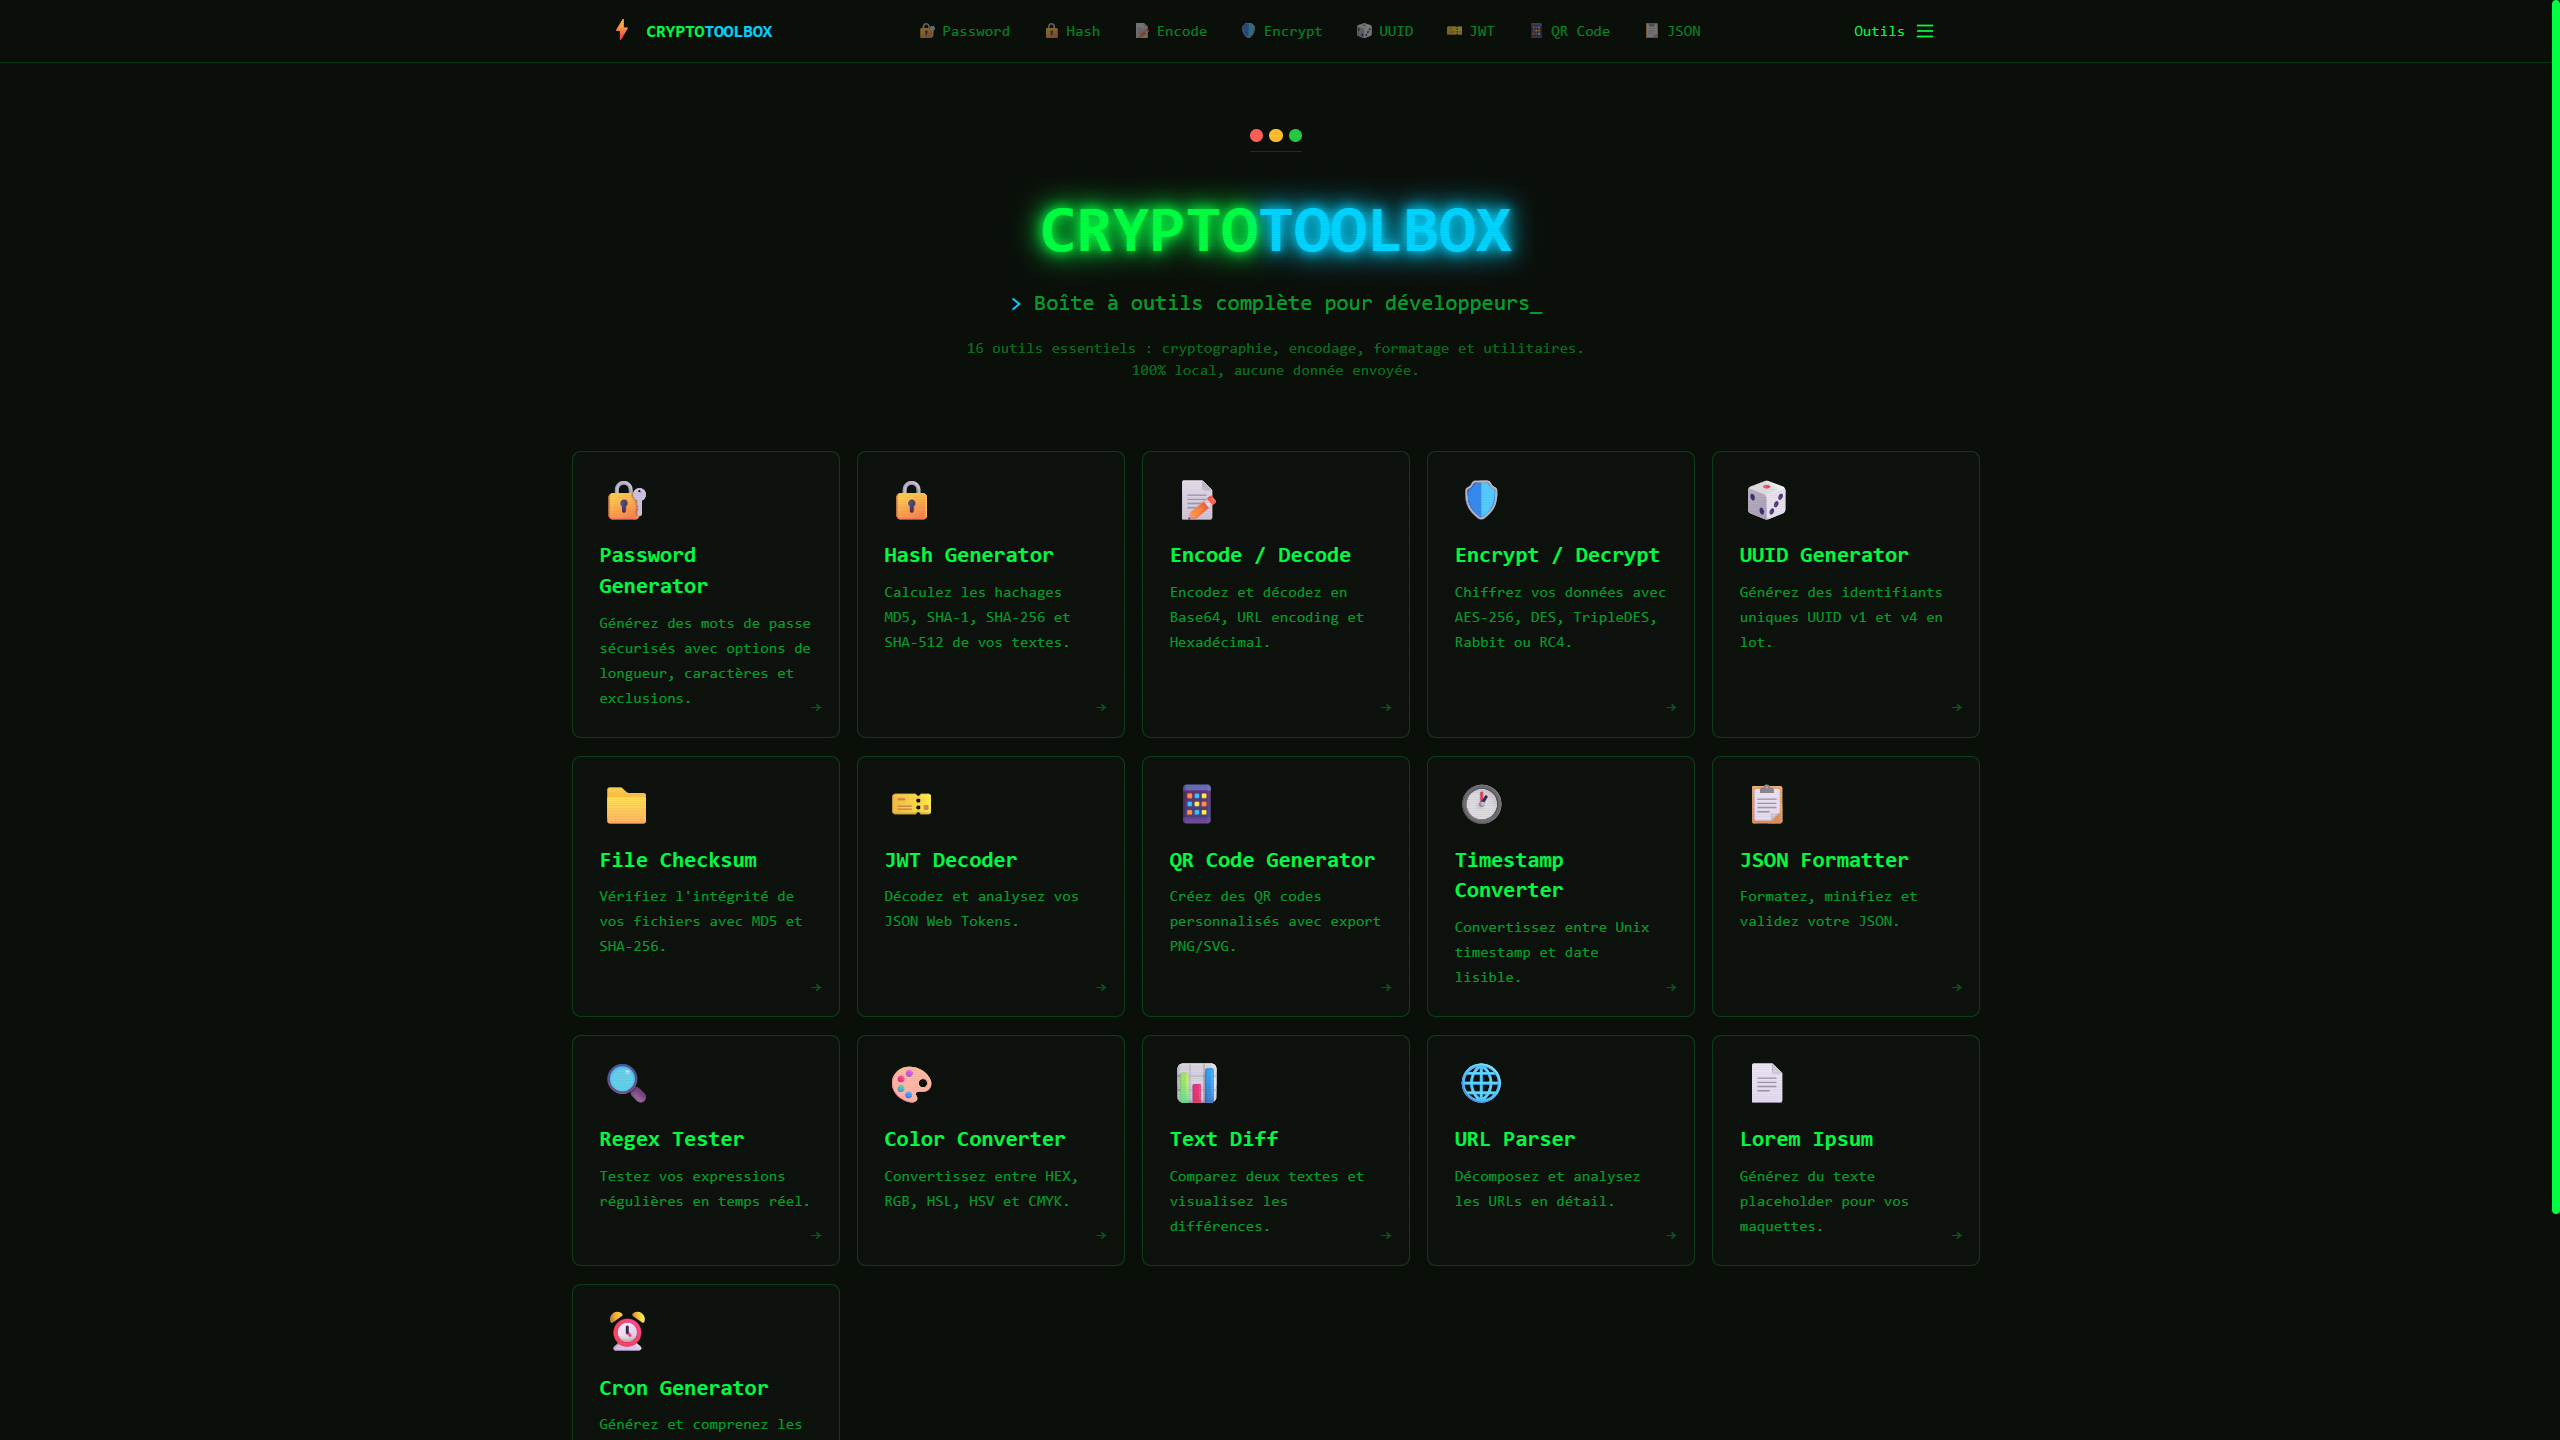
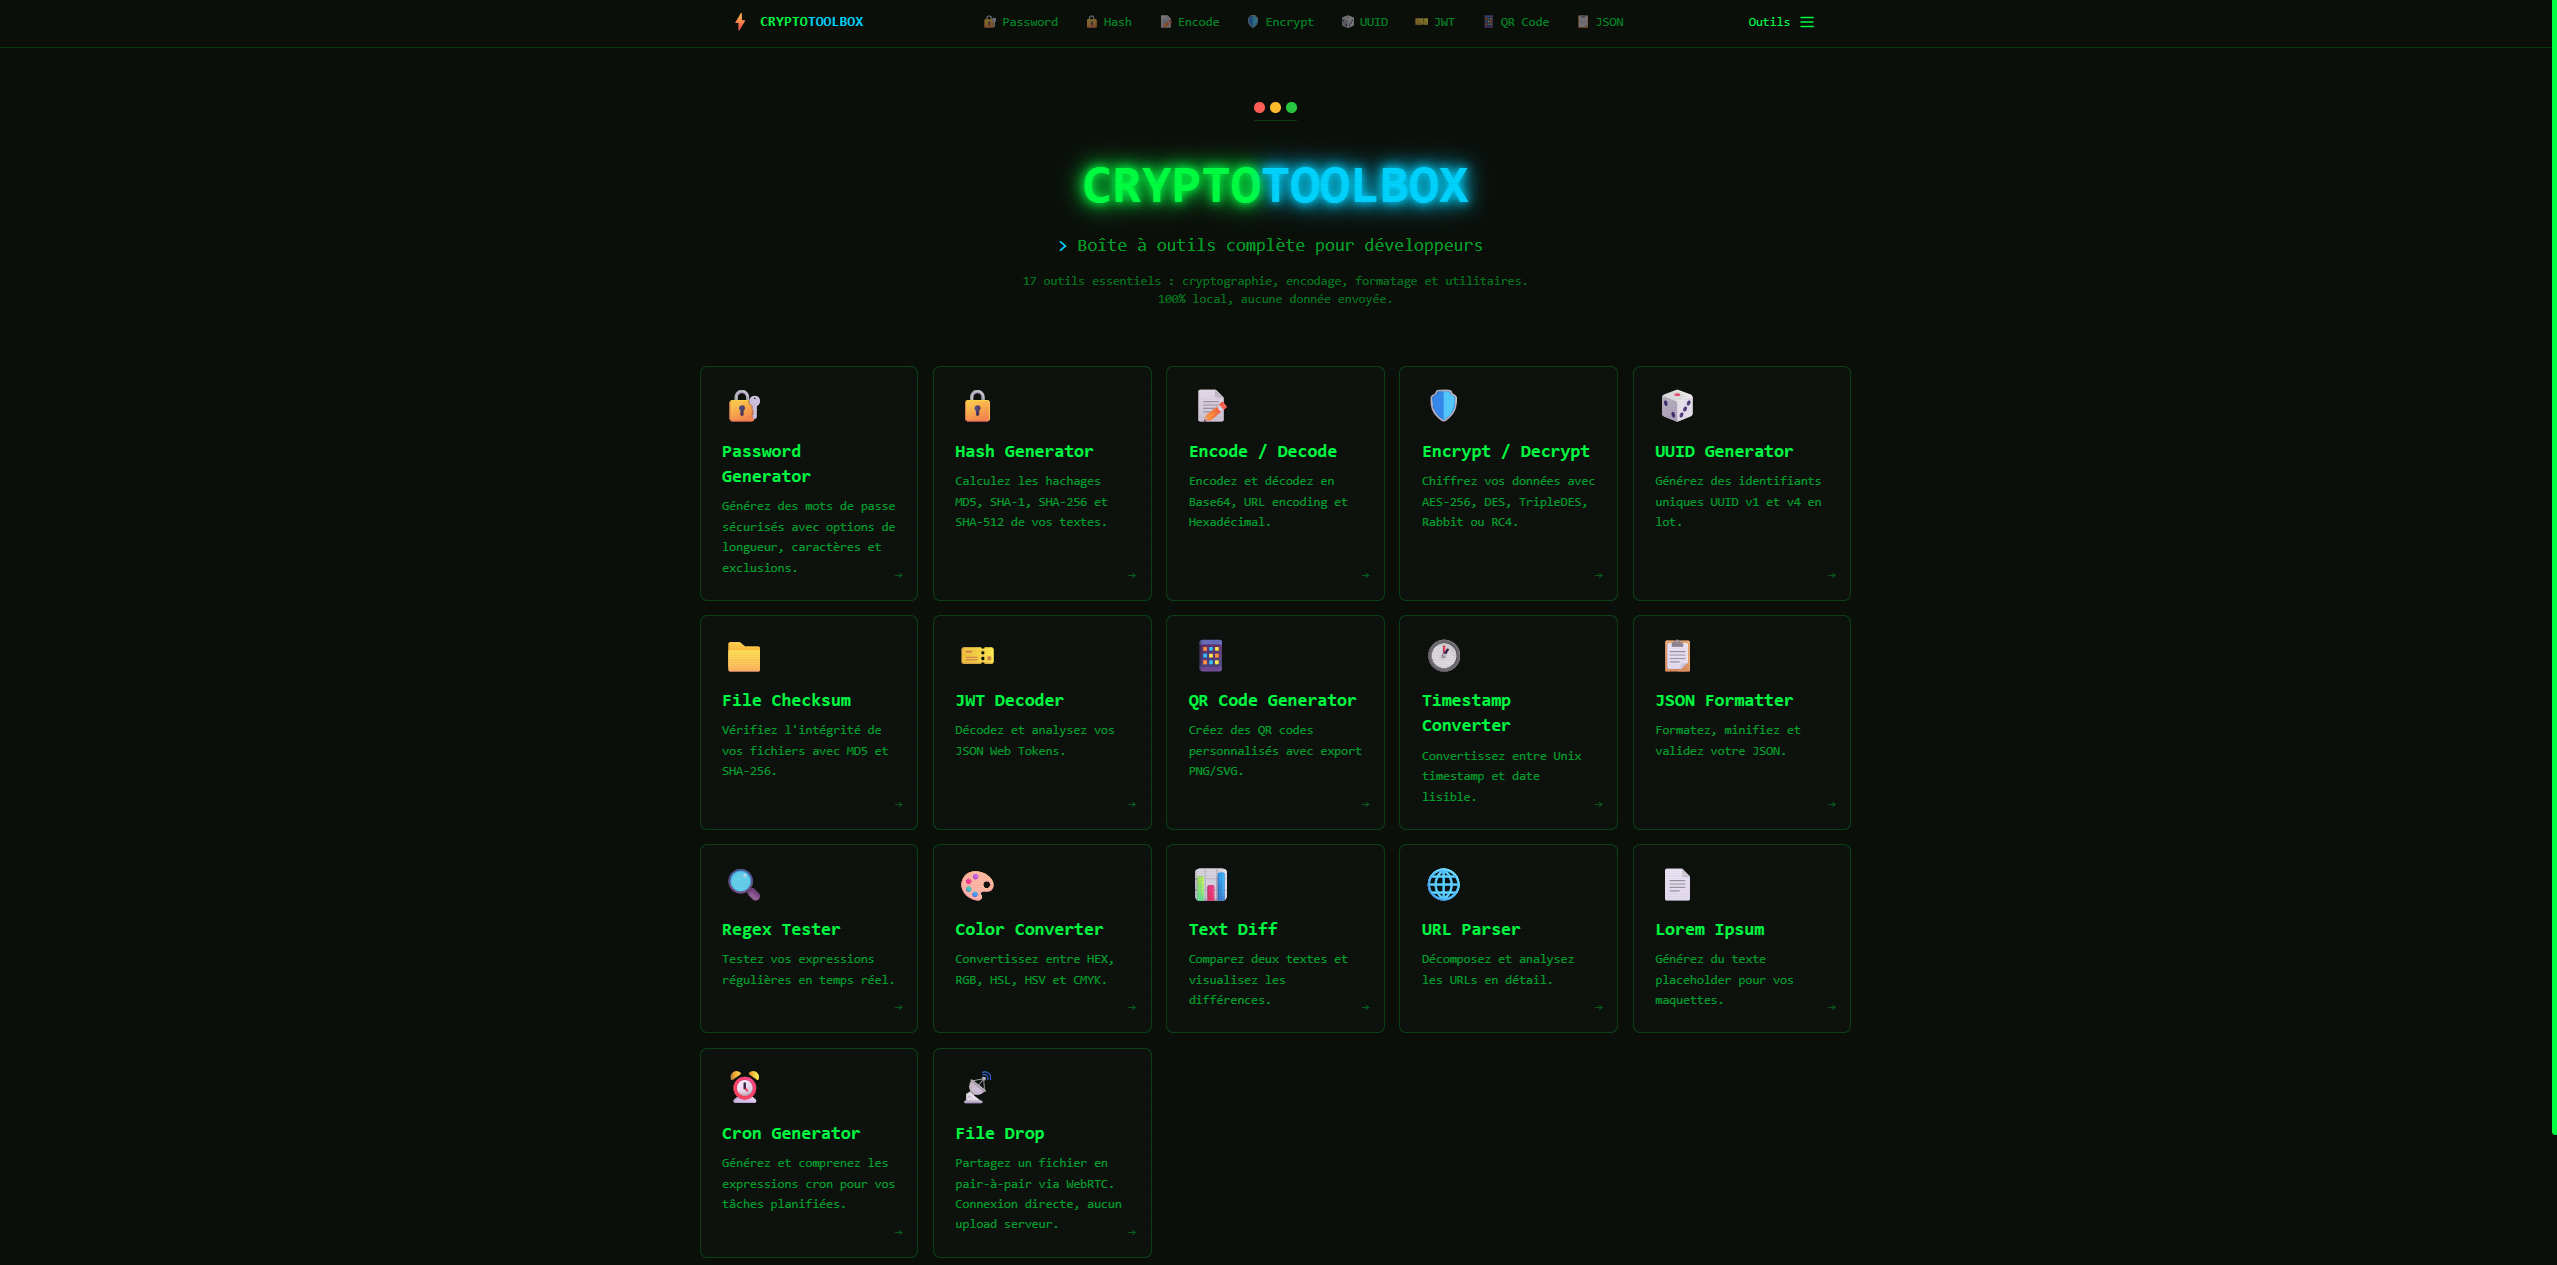
docs: update README + home screenshot

diff --git a/README.md b/README.md
@@ -2,7 +2,7 @@
 
 Une boîte à outils complète pour développeurs avec une interface moderne style **terminal/hacker**.
 
-![Next.js](https://img.shields.io/badge/Next.js-14-black?logo=next.js)
+![Next.js](https://img.shields.io/badge/Next.js-15-black?logo=next.js)
 ![TypeScript](https://img.shields.io/badge/TypeScript-5-blue?logo=typescript)
 ![Tailwind CSS](https://img.shields.io/badge/Tailwind-3.4-38B2AC?logo=tailwind-css)
 
@@ -17,7 +17,7 @@ Interface sombre style Matrix avec :
 - 💻 Police monospace (JetBrains Mono)
 - ✨ Effets glow et scanlines
 
-## 🛠 Les 16 Outils
+## 🛠 Les 17 Outils
 
 ### 🔐 Sécurité
 
@@ -59,6 +59,7 @@ Interface sombre style Matrix avec :
 | **URL Parser** | Décomposition complète des URLs, gestion des paramètres |
 | **Color Converter** | HEX, RGB, HSL, HSV, CMYK avec preview |
 | **Cron Generator** | Expressions cron avec presets et explications en français |
+| **📡 File Drop** | Partage P2P via WebRTC — connexion directe entre navigateurs, aucun upload serveur, multi-destinataires simultanés, écriture streaming sur disque (Chrome/Edge) |
 
 ## 🚀 Installation
 
@@ -67,11 +68,11 @@ Interface sombre style Matrix avec :
 git clone https://github.com/Aprilox/crypto-toolbox.git
 cd crypto-toolbox
 
-# Installer les dépendances
-npm install
+# Installer les dépendances (pnpm recommandé)
+pnpm install
 
 # Lancer le serveur de développement
-npm run dev
+pnpm dev
 ```
 
 Ouvrir [http://localhost:3000](http://localhost:3000) dans votre navigateur.
@@ -89,18 +90,42 @@ Ouvrir [http://localhost:3000](http://localhost:3000) dans votre navigateur.
 
 ## 🔒 Sécurité & Confidentialité
 
-- ✅ **100% local** - Aucune donnée n'est envoyée à un serveur
-- ✅ **Pas de tracking** - Aucun analytics ou cookie
-- ✅ **Open source** - Code vérifiable
-- ✅ **Crypto Web API** - Utilise les APIs natives du navigateur
+- ✅ **100% local** — Aucune donnée n'est envoyée à un serveur (sauf File Drop : signaling léger via API, fichier jamais stocké)
+- ✅ **Pas de tracking** — Aucun analytics ou cookie
+- ✅ **Open source** — Code vérifiable
+- ✅ **Crypto Web API** — Utilise les APIs natives du navigateur
+
+### 📡 File Drop — Architecture P2P
+
+File Drop utilise **WebRTC DataChannels** pour envoyer des fichiers directement de navigateur à navigateur :
+
+```
+Expéditeur ◄──── Signaling léger (offre/réponse ICE) ────► Serveur
+Expéditeur ◄════════ Transfert P2P direct (WebRTC) ════════► Receiver(s)
+```
+
+- Le fichier **ne passe jamais par le serveur**
+- Plusieurs destinataires peuvent télécharger simultanément (connexion séparée par receiver)
+- Chrome/Edge : écriture **streaming sur disque** (taille illimitée, pas de RAM)
+- Firefox : chargé en RAM (limité par la RAM disponible)
 
 ## 📁 Structure du Projet
 
 ```
 app/
-├── page.tsx                 # Page d'accueil (16 outils)
+├── page.tsx                 # Page d'accueil (17 outils)
+├── not-found.tsx            # Page 404 personnalisée
 ├── globals.css              # Thème terminal/Matrix
 ├── layout.tsx               # Layout principal
+├── api/
+│   └── filedrop/            # API signaling WebRTC (File Drop)
+│       ├── route.ts         # Création de session
+│       └── [id]/
+│           ├── route.ts     # Info session
+│           ├── join/        # Receiver rejoint
+│           ├── pending/     # Sender poll nouveaux receivers
+│           └── receivers/
+│               └── [rid]/   # Signaling offer/answer par receiver
 ├── components/
 │   ├── Navbar.tsx           # Navigation responsive
 │   ├── ToolCard.tsx         # Carte d'outil
@@ -121,16 +146,17 @@ app/
     ├── diff/                # Comparateur Texte
     ├── url/                 # Parser URL
     ├── lorem/               # Générateur Lorem Ipsum
-    └── cron/                # Générateur Cron
+    ├── cron/                # Générateur Cron
+    └── filedrop/            # Partage P2P WebRTC
 ```
 
 ## 🎯 Scripts Disponibles
 
 ```bash
-npm run dev      # Serveur de développement (port 3000)
-npm run build    # Build de production
-npm run start    # Serveur de production (port 8001)
-npm run lint     # Vérification ESLint
+pnpm dev      # Serveur de développement (port 3000)
+pnpm build    # Build de production
+pnpm start    # Serveur de production (port 8001)
+pnpm lint     # Vérification ESLint
 ```
 
 ## 📄 Licence
